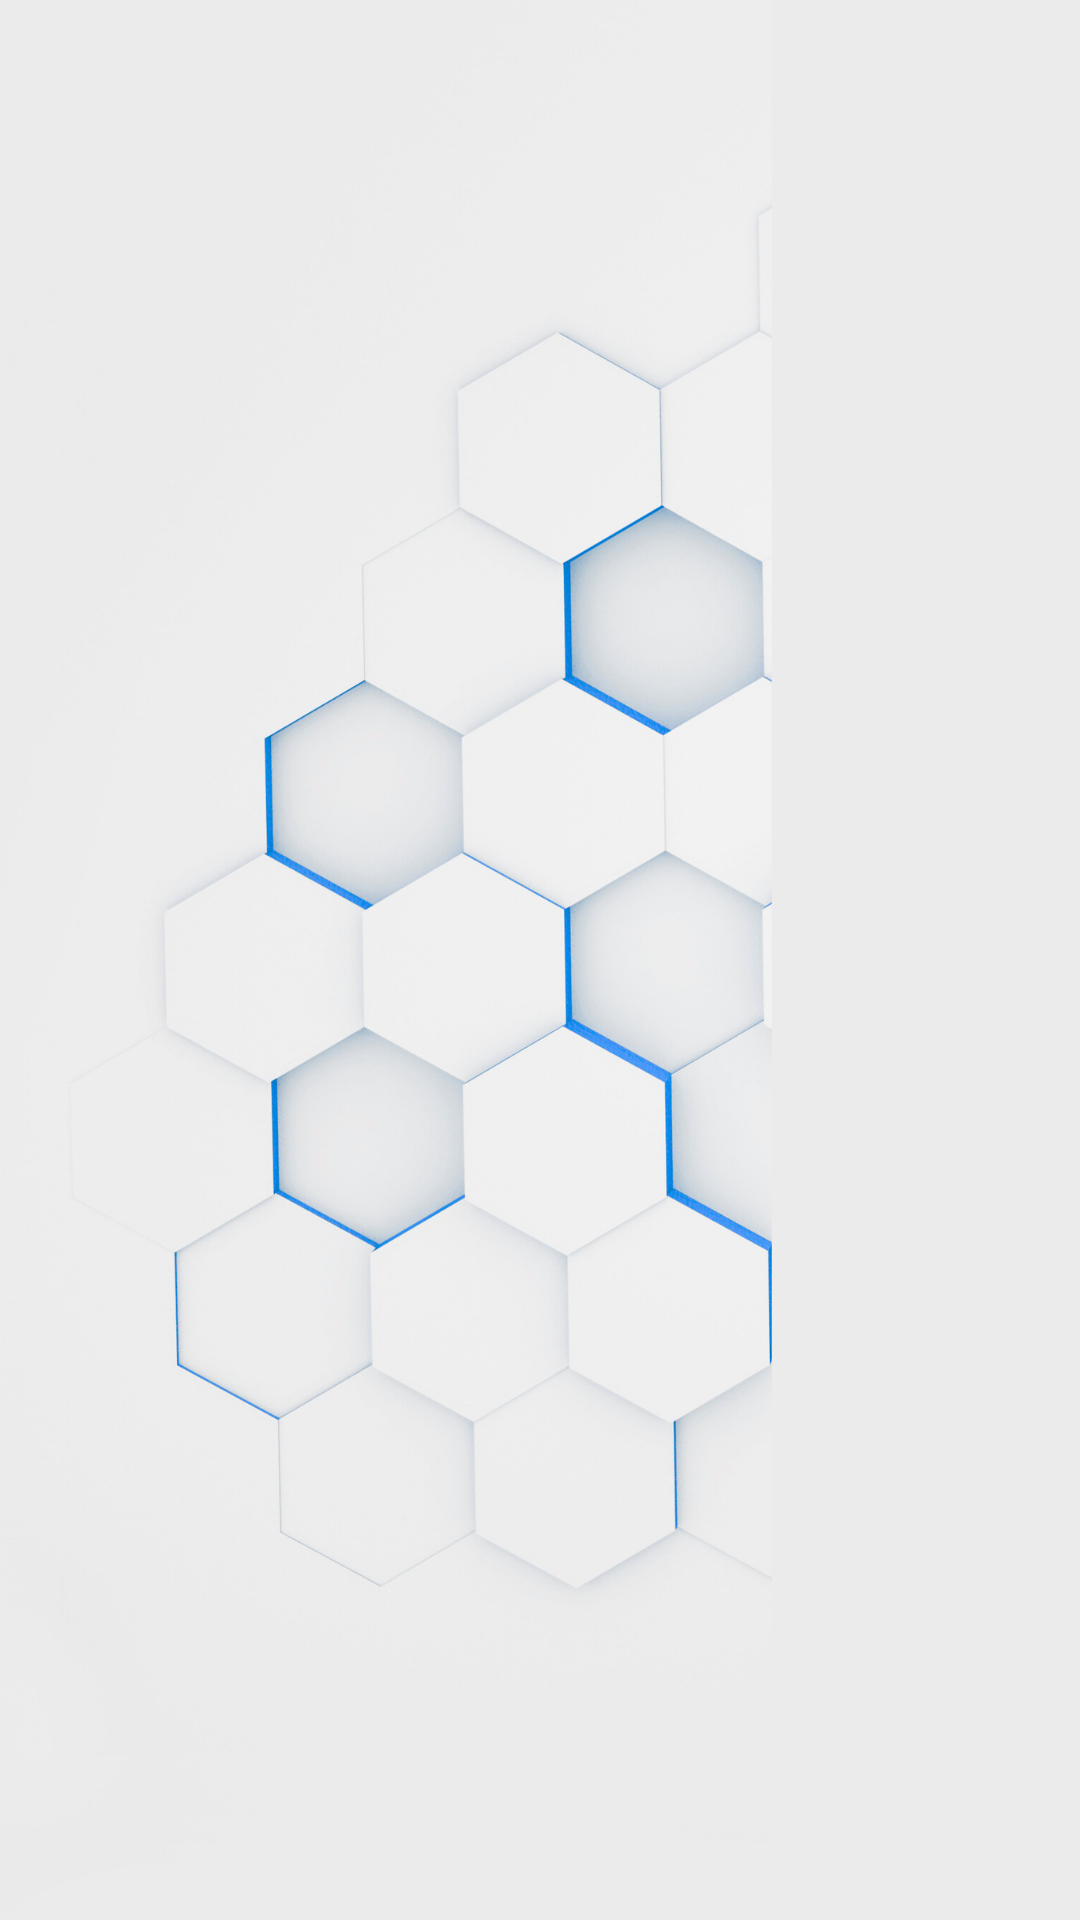
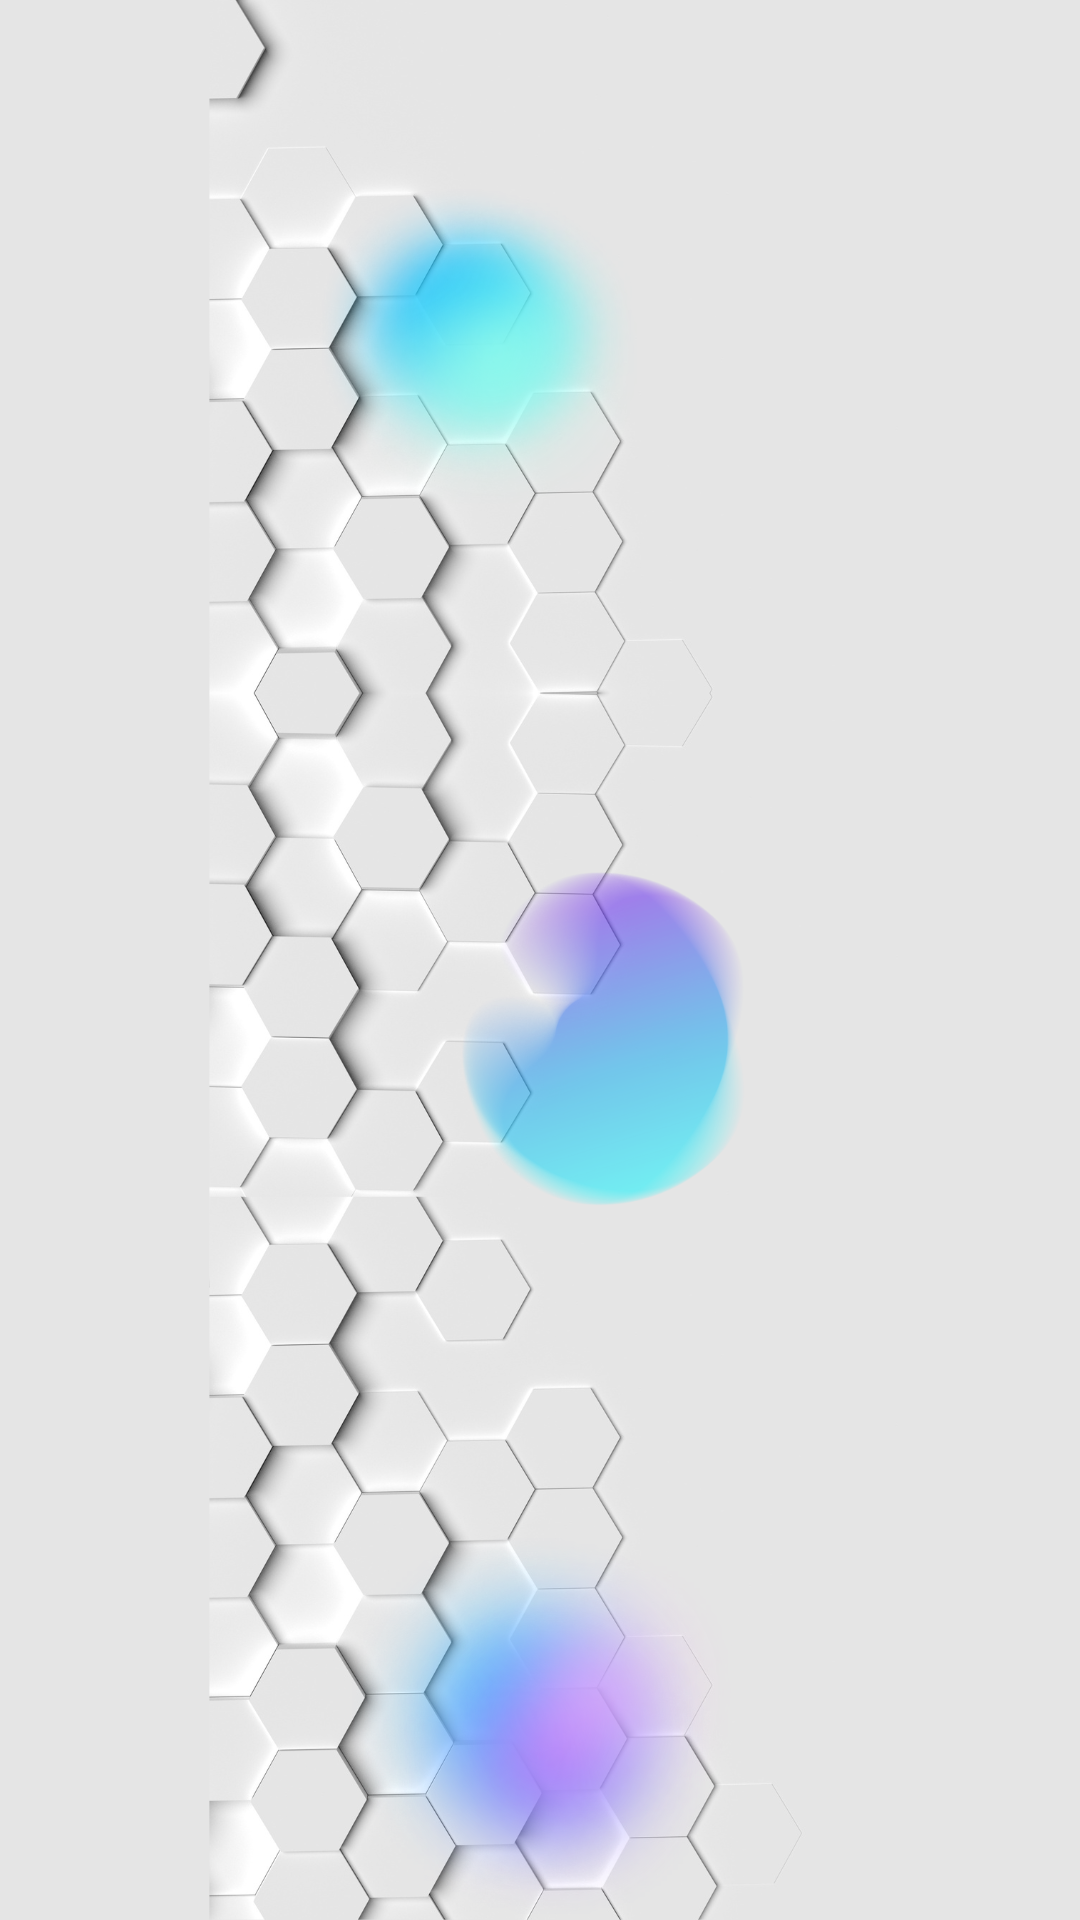
With gradient mesh and better aligned mobile backgrnds

diff --git a/services.html b/services.html
@@ -642,6 +642,11 @@
             }
 
 
+            .B2C-section {
+                margin: 2rem 0;
+                border-radius: 8rem 2rem 4rem 4rem;
+            }
+
             .split-services-section::before,
             .split-left::before,
             .split-right::before,
@@ -650,12 +655,20 @@
                 border-radius: 0;
             }
 
+            .B2C-section::before {
+                border-radius: 8rem 2rem 4rem 4rem;
+            }
+
             .split-services-section::after,
             .split-left::after,
             .split-right::after,
             .B2C-section::after {
                 margin: 0;
                 border-radius: 0;
+            }
+
+            .B2C-section::after {
+                border-radius: 8rem 2rem 4rem 4rem;
             }
 
             .platform-card {

diff --git a/about.html b/about.html
@@ -446,21 +446,21 @@
 
             .about-section,
             .join-contact-section {
-                margin: 0;
-                border-radius: 0;
+                margin: 0 0 4rem 0;
+                border-radius: 0 120px 80 px 30px;
             }
 
 
             .about-section::before,
             .join-contact-section::before {
                 margin: 0;
-                border-radius: 0px;
+                border-radius: 0 120px 80 px 30px;
             }
 
             .about-section::after ,
             .join-contact-section::after {
                 margin: 0;
-                border-radius: 0px;
+                border-radius: 0 120px 80 px 30px;
 
             }
         }

diff --git a/css/theme.css b/css/theme.css
@@ -72,11 +72,11 @@
     --b2c-section-bg: url('images/WBGM57.png');
     --pricing-section-bg: url('images/WBG79.png');
 
-    --aboutpgae-bg-mob: url('images/WBGM46.png');
-    --aboutpgaereverse-bg-mob: url('images/WBGM45.png');
+    --aboutpgae-bg-mob: url('images/WBGM44.png');
+    --aboutpgaereverse-bg-mob: url('images/WBGM42.png');
 
     --split-services-bg-mob: url('images/WBG46.png');
-    --b2c-section-bg-mob: url('images/WBGM45.png');
+    --b2c-section-bg-mob: url('images/WBGM43.png');
     --pricing-section-bg-mob: rl('images/WBG79.png');
 
 }
